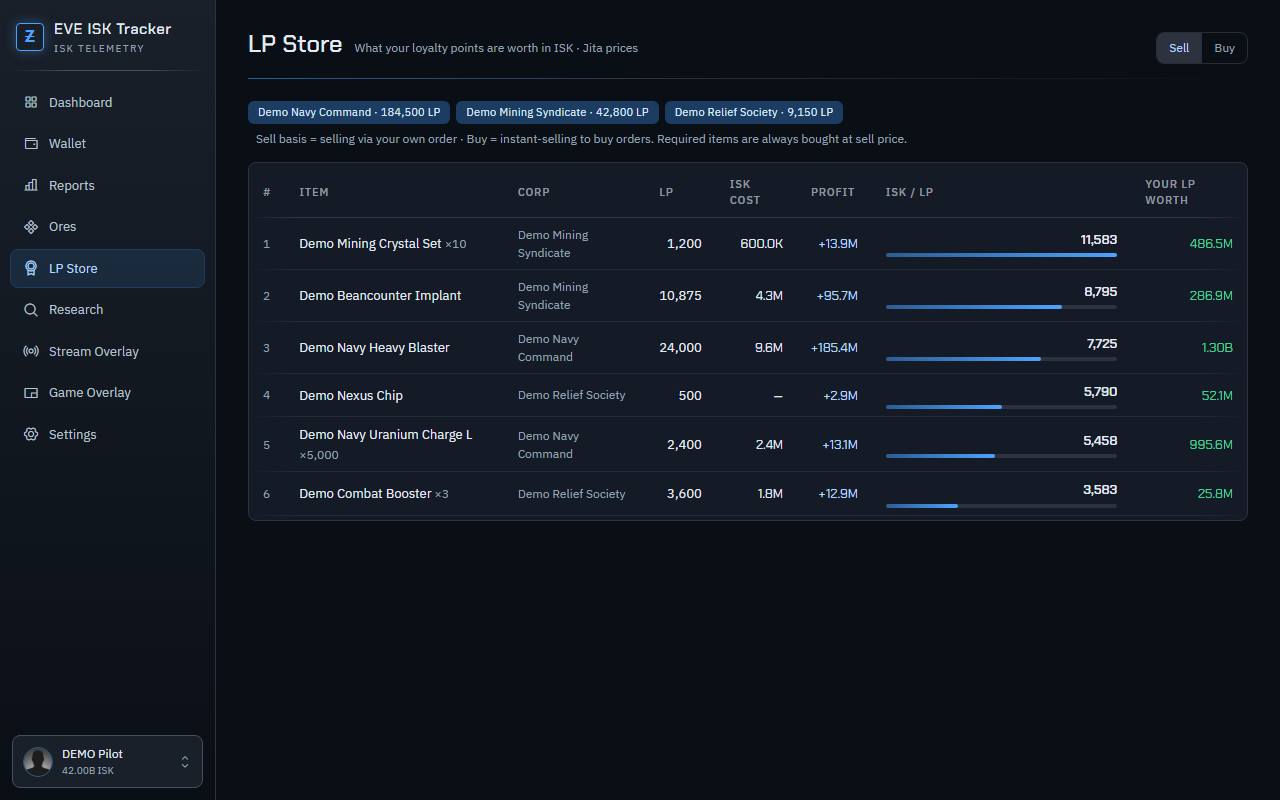
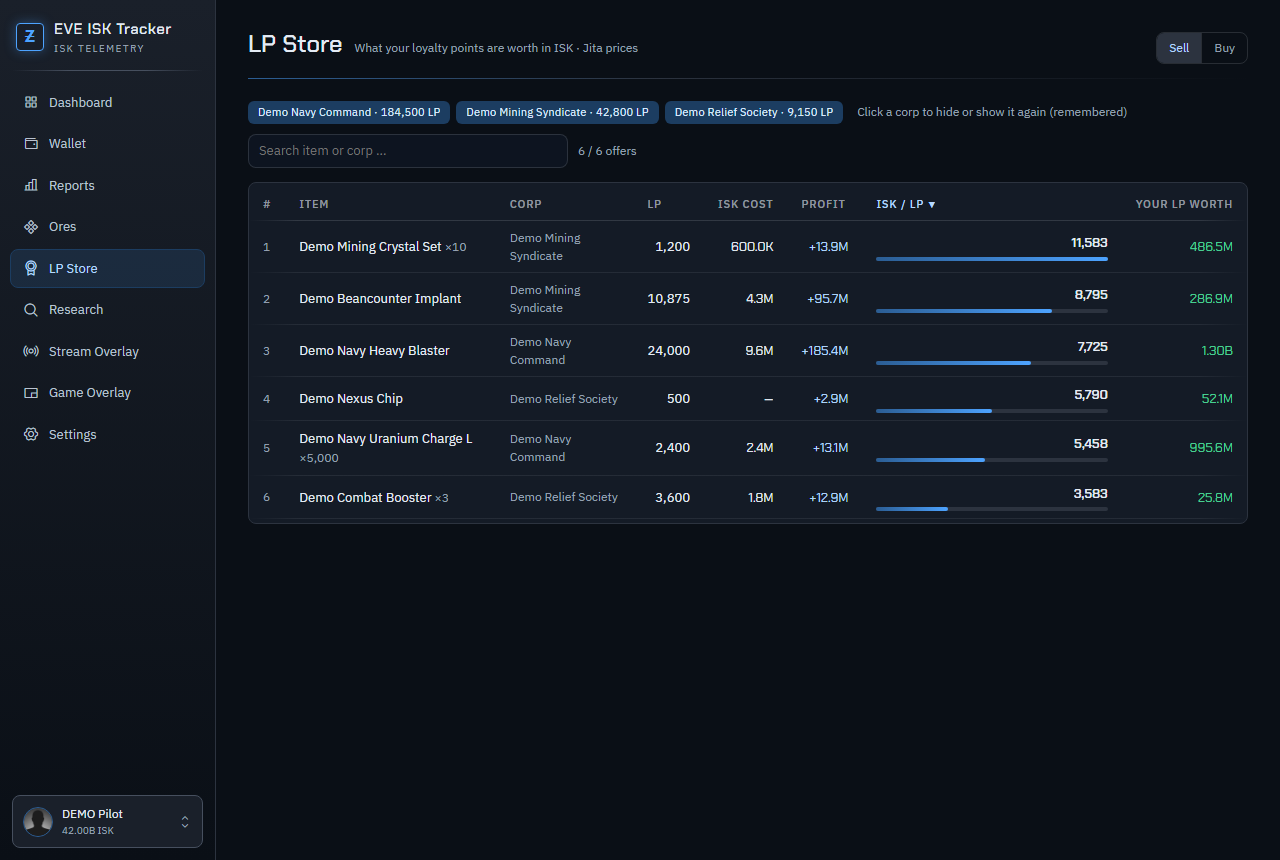
feat(lp): Corps ausblendbar, Suche und sortierbare Spalten im LP Store
- Corp-Marken sind Schalter: ein Klick blendet die Angebote einer Corp aus,
  ein zweiter wieder ein. Die Auswahl merkt sich der Tracker (kv lp_hidden_corps)
  und ueberspringt versteckte Corps auch beim Auffrischen — spart ESI-Abfragen
- Suchfeld filtert live nach Item oder Corp, mit Trefferzaehler
- alle Spalten sortierbar (Klick dreht die Richtung), nicht bewertbare Zeilen
  bleiben immer am Ende
- Zeilenlimit entfallen: der Screen zeigt jetzt alle Angebote (bisher 400),
  sonst haette das Sortieren nur einen Ausschnitt erfasst
- Screenshot und README nachgezogen

diff --git a/EveIskTracker.Desktop/wwwroot/app.js b/EveIskTracker.Desktop/wwwroot/app.js
@@ -130,6 +130,13 @@ const L = {
   thLpProfit: ['Gewinn', 'Profit'],
   thLpTotal: ['Deine LP wert', 'Your LP worth'],
   lpEmpty: ['Noch keine LP-Daten.', 'No LP data yet.'],
+  lpNoMatch: ['Kein Treffer für die Suche.', 'Nothing matches your search.'],
+  lpOffers: ['Angebote', 'offers'],
+  lpSearchPh: ['Item oder Corp suchen …', 'Search item or corp …'],
+  lpHideCorp: ['Ausblenden — Angebote dieser Corp verstecken', 'Hide — exclude this corp\u2019s offers'],
+  lpShowCorp: ['Wieder einblenden', 'Show again'],
+  lpCorpNote: ['Corp anklicken, um sie aus- oder wieder einzublenden (wird gemerkt)',
+               'Click a corp to hide or show it again (remembered)'],
   lpNoLp: ['Keine Loyalitätspunkte gefunden — LP gibt es für Missionen, Incursions und Faction Warfare.',
            'No loyalty points found — you earn LP from missions, incursions and faction warfare.'],
   lpScopeBanner: ['Für LP-Daten fehlt deinem Login noch die Berechtigung <code>esi-characters.read_loyalty.v1</code>. Auf developers.eveonline.com die Permission zur Anwendung hinzufügen, dann unter Settings den Charakter neu anmelden.',
@@ -994,9 +1001,17 @@ $('metricToggles').addEventListener('click', async e => {
 
 S.lpBasis = 'sell';
 
+// Zustand des LP-Screens: Rohdaten vom Server, Suche und Sortierung liegen im
+// Client — die Liste ist klein genug, und Tippen soll ohne Serverrunde reagieren
+S.lpData = null;
+S.lpQuery = '';
+S.lpSort = 'iskPerLp';
+S.lpDesc = true;
+
 async function loadLpScreen() {
   if (!S.charId) return;
   const d = await api(`/api/lp?charId=${S.charId}&basis=${S.lpBasis}`);
+  S.lpData = d;
   const me = S.status && S.status.characters.find(c => c.characterId === S.charId);
 
   $('lpProgress').textContent = d.busy ? `${t('lpLoading')} … ${d.progress || ''}` : '';
@@ -1006,14 +1021,59 @@ async function loadLpScreen() {
     (d.error ? `<div class="banner err">${esc(d.error)}</div>` : '') +
     (me && me.hasLpScope && !d.balances.length ? `<div class="banner info">${t('lpNoLp')}</div>` : '');
 
+  // Corps sind Schalter: abgewählte Corps fliegen aus der Rangliste und werden
+  // beim Auffrischen übersprungen; die Auswahl merkt sich der Tracker
   $('lpBalances').innerHTML = d.balances.map(b =>
-    `<span class="tag tag-accent">${esc(b.corp)} · ${nloc(b.lp)} LP</span>`).join('') +
-    (d.balances.length ? `<span class="head-note" style="align-self:center;margin-left:8px">${t('lpBasisNote')}</span>` : '');
+    `<span class="tag ${b.hidden ? 'tag-off' : 'tag-accent'} click" data-lpcorp="${b.corpId}"
+       title="${b.hidden ? t('lpShowCorp') : t('lpHideCorp')}">${esc(b.corp)} · ${nloc(b.lp)} LP</span>`).join('') +
+    (d.balances.length ? `<span class="head-note" style="align-self:center;margin-left:8px">${t('lpCorpNote')}</span>` : '');
 
-  const max = d.rows.length && d.rows[0].iskPerLp != null ? d.rows[0].iskPerLp : 1;
-  $('lpRows').innerHTML = d.rows.length ? d.rows.map((r, i) => `
+  renderLpRows();
+
+  // Solange Preise laden, automatisch nachfassen
+  if (d.busy && S.screen === 'lp') setTimeout(() => { if (S.screen === 'lp') loadLpScreen().catch(() => {}); }, 3000);
+}
+
+/** Zeilen filtern, sortieren und zeichnen — ohne den Server erneut zu fragen. */
+function renderLpRows() {
+  const d = S.lpData;
+  if (!d) return;
+
+  const q = S.lpQuery.trim().toLowerCase();
+  let rows = d.rows.filter(r =>
+    !q || r.item.toLowerCase().includes(q) || r.corp.toLowerCase().includes(q));
+
+  // Nicht bewertbare Zeilen (kein Marktpreis) immer ans Ende, egal wie sortiert wird
+  const key = S.lpSort;
+  const val = r => {
+    const v = r[key];
+    if (typeof v === 'string') return v.toLowerCase();
+    return v == null ? null : v;
+  };
+  rows = rows.slice().sort((a, b) => {
+    const va = val(a), vb = val(b);
+    if (va == null && vb == null) return 0;
+    if (va == null) return 1;
+    if (vb == null) return -1;
+    const c = typeof va === 'string' ? va.localeCompare(vb) : va - vb;
+    return S.lpDesc ? -c : c;
+  });
+
+  // Balkenlänge misst am besten sichtbaren ISK/LP-Wert
+  const best = Math.max(...rows.map(r => r.iskPerLp || 0), 1);
+
+  $('lpCount').textContent = d.rows.length
+    ? `${nloc(rows.length)} / ${nloc(d.rows.length)} ${t('lpOffers')}` : '';
+
+  document.querySelectorAll('#screen-lp th.sortable').forEach(th => {
+    const on = th.dataset.sort === S.lpSort;
+    th.classList.toggle('sorted', on);
+    th.dataset.dir = on ? (S.lpDesc ? 'desc' : 'asc') : '';
+  });
+
+  $('lpRows').innerHTML = rows.length ? rows.map((r, i) => `
     <tr>
-      <td class="head-note">${r.iskPerLp != null ? i + 1 : '–'}</td>
+      <td class="head-note">${i + 1}</td>
       <td>${typeIcon(r.typeId)}${esc(r.item)}${r.qty > 1 ? ` <span class="head-note">×${nloc(r.qty)}</span>` : ''}
         ${r.reqCost > 0 ? `<div class="head-note" style="font-size:11px">+ ${t('lpReq')} ${fmtIsk(r.reqCost)}</div>` : ''}</td>
       <td class="head-note" style="font-size:12px">${esc(r.corp)}</td>
@@ -1022,14 +1082,46 @@ async function loadLpScreen() {
       <td class="num mono ${r.profit > 0 ? 'acc' : ''}">${r.profit != null ? signed(r.profit) : `<span class="head-note">${t('lpNoPrice')}</span>`}</td>
       <td class="num">
         <div class="mono" style="font-weight:600">${r.iskPerLp != null ? nloc(Math.round(r.iskPerLp)) : '—'}</div>
-        <div class="bar" style="margin-top:4px"><div class="bar-fill" style="width:${r.iskPerLp != null ? Math.max(1, Math.round(r.iskPerLp / max * 100)) : 0}%"></div></div>
+        <div class="bar" style="margin-top:4px"><div class="bar-fill" style="width:${r.iskPerLp != null ? Math.max(1, Math.round(r.iskPerLp / best * 100)) : 0}%"></div></div>
       </td>
       <td class="num mono ${r.myTotal > 0 ? 'pos' : ''}">${r.myTotal != null && r.myTotal > 0 ? fmtIsk(r.myTotal) : '—'}</td>
-    </tr>`).join('') : `<tr><td colspan="8" class="empty">${t('lpEmpty')}</td></tr>`;
-
-  // Solange Preise laden, automatisch nachfassen
-  if (d.busy && S.screen === 'lp') setTimeout(() => { if (S.screen === 'lp') loadLpScreen().catch(() => {}); }, 3000);
+    </tr>`).join('')
+    : `<tr><td colspan="8" class="empty">${q ? t('lpNoMatch') : t('lpEmpty')}</td></tr>`;
 }
+
+// Corp an-/abwählen: sofort speichern, dann neu laden (der Server filtert mit)
+$('lpBalances').addEventListener('click', async e => {
+  const tag = e.target.closest('[data-lpcorp]');
+  if (!tag || !S.lpData) return;
+  const id = tag.dataset.lpcorp;
+  const hidden = (S.status.lpHiddenCorps || '').split(',').filter(Boolean);
+  const next = hidden.includes(id) ? hidden.filter(x => x !== id) : [...hidden, id];
+  try {
+    await api('/api/config', {
+      method: 'POST', headers: { 'Content-Type': 'application/json' },
+      body: JSON.stringify({ lpHiddenCorps: next.join(',') }),
+    });
+    S.status.lpHiddenCorps = next.join(',');
+    // wieder eingeblendet? Dann fehlen evtl. Angebote/Preise — Auffrischen anstoßen
+    if (hidden.includes(id)) await api(`/api/lp/refresh?charId=${S.charId}`, { method: 'POST' });
+    await loadLpScreen();
+  } catch (err) { alert(t('saveFail') + err.message); }
+});
+
+$('lpSearch').addEventListener('input', e => {
+  S.lpQuery = e.target.value;
+  renderLpRows();
+});
+
+// Spaltenkopf: erst nach dieser Spalte sortieren, erneuter Klick dreht die Richtung
+document.querySelector('#screen-lp thead').addEventListener('click', e => {
+  const th = e.target.closest('th.sortable');
+  if (!th) return;
+  const key = th.dataset.sort;
+  if (S.lpSort === key) S.lpDesc = !S.lpDesc;
+  else { S.lpSort = key; S.lpDesc = key !== 'item' && key !== 'corp'; }
+  renderLpRows();
+});
 
 $('lpBasis').addEventListener('click', e => {
   const b = e.target.closest('.seg-opt'); if (!b) return;

diff --git a/EveIskTracker.Desktop/wwwroot/index.html b/EveIskTracker.Desktop/wwwroot/index.html
@@ -235,19 +235,23 @@
       <div class="head-rule"></div>
 
       <div id="lpBanners"></div>
-      <div class="tagrow" id="lpBalances" style="margin-bottom:14px"></div>
+      <div class="tagrow" id="lpBalances" style="margin-bottom:10px"></div>
+      <div class="row" style="margin-bottom:14px;gap:10px">
+        <input class="input" id="lpSearch" data-i18n-ph="lpSearchPh" placeholder="Item oder Corp suchen ..." style="max-width:320px">
+        <span class="head-note" id="lpCount"></span>
+      </div>
 
       <div class="card" style="padding:4px 0">
         <div class="tablewrap"><table class="table">
           <thead><tr>
             <th style="width:36px">#</th>
-            <th>Item</th>
-            <th>Corp</th>
-            <th class="num">LP</th>
-            <th class="num" data-i18n="thLpIsk">ISK-Einsatz</th>
-            <th class="num" data-i18n="thLpProfit">Gewinn</th>
-            <th class="num" style="width:26%">ISK / LP</th>
-            <th class="num" data-i18n="thLpTotal">Deine LP wert</th>
+            <th class="sortable" data-sort="item">Item</th>
+            <th class="sortable" data-sort="corp">Corp</th>
+            <th class="num sortable" data-sort="lpCost">LP</th>
+            <th class="num sortable" data-sort="iskCost" data-i18n="thLpIsk">ISK-Einsatz</th>
+            <th class="num sortable" data-sort="profit" data-i18n="thLpProfit">Gewinn</th>
+            <th class="num sortable" data-sort="iskPerLp" style="width:26%">ISK / LP</th>
+            <th class="num sortable" data-sort="myTotal" data-i18n="thLpTotal">Deine LP wert</th>
           </tr></thead>
           <tbody id="lpRows"><tr><td colspan="8" class="empty" data-i18n="lpEmpty">Noch keine LP-Daten.</td></tr></tbody>
         </table></div>

diff --git a/EveIskTracker.Desktop/wwwroot/app.css b/EveIskTracker.Desktop/wwwroot/app.css
@@ -258,3 +258,10 @@ code{background:#0d1420;padding:2px 7px;border-radius:5px;font-size:12px;color:v
 .banner{border-radius:9px;padding:11px 14px;margin-bottom:12px;font-size:13px}
 .banner.err{background:rgba(242,100,122,.1);border:1px solid rgba(242,100,122,.35);color:#ffb3bf}
 .banner.info{background:rgba(77,163,255,.08);border:1px solid rgba(77,163,255,.3);color:#bcdcfb}
+
+/* Sortierbare Spaltenköpfe (LP Store): Richtung als kleiner Pfeil am Titel */
+.table th.sortable{cursor:pointer;user-select:none;white-space:nowrap}
+.table th.sortable:hover{color:var(--color-accent-200)}
+.table th.sorted{color:var(--color-accent-200)}
+.table th.sorted::after{content:' \25B2';font-size:9px}
+.table th.sorted[data-dir="desc"]::after{content:' \25BC'}

diff --git a/EveIskTracker.Desktop/WebHost.cs b/EveIskTracker.Desktop/WebHost.cs
@@ -105,6 +105,7 @@ WHERE last_error IS NOT NULL
                 usingDefaultApp = !string.IsNullOrWhiteSpace(Config.DefaultClientId) && string.IsNullOrWhiteSpace(Config.ClientIdRaw),
                 contact = Config.Contact,
                 activeCharId = Config.ActiveCharacterId,
+                lpHiddenCorps = Config.LpHiddenCorps,
                 overlayTextPath = Config.OverlayTextPath,
                 overlayMetrics = Config.OverlayMetrics,
                 rateHold = Config.RateHoldSeconds,
@@ -140,6 +141,7 @@ WHERE last_error IS NOT NULL
             if (form.TryGetValue("sessionAutoStop", out var sa)) Config.SessionAutoStop = sa != "0";
             if (form.TryGetValue("gameOverlayModules", out var gm)) Config.GameOverlayModules = gm;
             if (form.TryGetValue("gameOverlayLayout", out var gl)) Config.GameOverlayLayout = gl;
+            if (form.TryGetValue("lpHiddenCorps", out var lh)) Config.LpHiddenCorps = lh;
             if (form.TryGetValue("gameOverlayOpacity", out var go) && int.TryParse(go, out var gov))
             {
                 Config.GameOverlayOpacity = gov;
@@ -655,10 +657,18 @@ WHERE l.character_id=$c AND l.lp > 0 ORDER BY l.lp DESC", ("$c", charId)))
                 while (r.Read())
                 {
                     lpByCorp[r.GetInt64(0)] = r.GetInt64(2);
-                    balances.Add(new { corpId = r.GetInt64(0), corp = r.GetString(1), lp = r.GetInt64(2) });
+                    balances.Add(new
+                    {
+                        corpId = r.GetInt64(0),
+                        corp = r.GetString(1),
+                        lp = r.GetInt64(2),
+                        hidden = Config.IsLpCorpHidden(r.GetInt64(0)),
+                    });
                 }
 
-            var offers = LpStore.LoadOffers(corps);
+            // Angebote ausgeblendeter Corps gar nicht erst bewerten
+            var visible = corps.Where(c => !Config.IsLpCorpHidden(c)).ToList();
+            var offers = LpStore.LoadOffers(visible);
             var prices = MarketPrices.Load();
             var names = Analytics.Names();
 
@@ -696,7 +706,7 @@ WHERE l.character_id=$c AND l.lp > 0 ORDER BY l.lp DESC", ("$c", charId)))
                 error = LpStore.LastError,
                 balances,
                 rows = computed.OrderByDescending(x => x.IskPerLp ?? double.MinValue)
-                               .Select(x => x.Row).Take(400),
+                               .Select(x => x.Row),
             });
         });
 

diff --git a/EveIskTracker.Desktop/Config.cs b/EveIskTracker.Desktop/Config.cs
@@ -158,6 +158,30 @@ public static class Config
         set => Db.SetKv("active_char", value.ToString());
     }
 
+    /// <summary>
+    /// NPC-Corps, deren LP-Store-Angebote im LP-Screen ausgeblendet sind (Komma-Liste
+    /// von Corp-IDs). Man sammelt bei vielen Corps nebenbei ein paar Punkte, die nie
+    /// jemand eintauscht, die sollen die Rangliste nicht zumuellen. Ausgeblendete
+    /// Corps werden auch beim Auffrischen uebersprungen und kosten so keine Abfragen.
+    /// </summary>
+    public static string LpHiddenCorps
+    {
+        get => Db.GetKv("lp_hidden_corps", "");
+        set
+        {
+            var clean = (value ?? "")
+                .Split(',', StringSplitOptions.RemoveEmptyEntries | StringSplitOptions.TrimEntries)
+                .Where(s => long.TryParse(s, out var v) && v > 0)
+                .Distinct();
+            Db.SetKv("lp_hidden_corps", string.Join(',', clean));
+        }
+    }
+
+    /// <summary>Ist diese Corp im LP-Screen ausgeblendet?</summary>
+    public static bool IsLpCorpHidden(long corpId) =>
+        LpHiddenCorps.Split(',', StringSplitOptions.RemoveEmptyEntries)
+                     .Any(s => long.TryParse(s, out var v) && v == corpId);
+
     /// <summary>Oberflächensprache: "de" oder "en". Standard Englisch (internationales Publikum).</summary>
     public static string Lang
     {

diff --git a/EveIskTracker.Desktop/LpStore.cs b/EveIskTracker.Desktop/LpStore.cs
@@ -139,7 +139,8 @@ public static class LpStore
     private static async Task RefreshAsync(long charId)
     {
         var esi = new EsiClient(Config.Contact);
-        var corps = CorpsWithLp(charId);
+        // ausgeblendete Corps kosten weder Abfragen noch Preis-Lookups
+        var corps = CorpsWithLp(charId).Where(c => !Config.IsLpCorpHidden(c)).ToList();
         if (corps.Count == 0) return;
 
         // 1) Angebote je Corp (24h-Cache — LP-Stores ändern sich praktisch nie)

diff --git a/RELEASE_NOTES_v0.4.0.md b/RELEASE_NOTES_v0.4.0.md
@@ -1,0 +1,60 @@
+## v0.4.0 — DPS everywhere, and overlays that follow your character
+
+### ✨ Added
+
+- **DPS graph in the stream widget** — the combat curves (damage dealt vs. taken) are now
+  a toggleable tile in the OBS/Streamlabs widget, right below the stat tiles.
+- **Standalone DPS browser source** — prefer the graph somewhere else in your scene?
+  It is also available on its own at `/dpswidget` (420 × 150, transparent background).
+- **Recommended source size** — the Stream Overlay screen measures the live preview and
+  tells you exactly what size to give the browser source; it updates as you toggle tiles.
+- **All overlays follow the character you pick in the app** — switch characters at the
+  bottom left and the stream widget, the DPS source and the in-game overlay all switch
+  with you. No need to touch your OBS sources; existing URLs keep working. Append
+  `&pin=1` to lock a single source to one specific character (multiboxing).
+- **Preview with demo curves** — the widget preview inside the app shows simulated combat
+  data, so you can judge the graph without being in a fight. The real OBS source always
+  shows real data.
+
+### 💅 Improved
+
+- **Smoother graphs** — the curves now scroll continuously (instead of jumping once per
+  second), are smoothed with a 7-second rolling average and drawn as rounded Bézier
+  curves instead of jagged spikes.
+- **Calm right edge** — EVE writes its combat log in bursts, which made the newest
+  seconds twitch. The last few seconds are now held back until they are final.
+- **Combat log selection** — when multiboxing, the character you selected takes priority
+  over whichever client happens to be writing the most.
+- **In-game overlay footer** — the totals since client start are colour-coded to match
+  their curves instead of sitting there as unlabelled grey numbers.
+
+### 🐛 Fixed
+
+- **The in-game overlay can no longer take the graphics driver down with it.** Overlays
+  over games are a classic cause of GPU crashes, so the overlay now renders entirely
+  without the GPU, in its own isolated browser process, and reloads itself if that
+  process ever dies. Hiding the overlay suspends it completely.
+- **Session row explains itself** — without a running session the ISK row used to show
+  nothing but dashes, which read like "the tracker is broken". It now shows your wallet
+  balance plus a note that no session is running (and says so clearly when no character
+  is signed in, or when the tracker is unreachable).
+- **Stale token errors** — "please sign in again" no longer sticks around forever after a
+  successful re-login.
+- **CCP downtime** is shown as a calm notice instead of red error banners; the LIVE
+  status stays on.
+
+### 📝 Docs
+
+- README updated for all of the above, including the new external data source
+  ([EVE Ref](https://everef.net/), blueprint data) and an explicit note that combat logs
+  are only ever read, never written, and never leave your machine.
+- All screenshots refreshed; new ones for the in-game overlay, the LP store and the
+  standalone DPS source.
+
+---
+
+**Requirements:** Windows 10/11 with the WebView2 runtime (ships with Windows 11).
+The in-game overlay needs EVE in **windowed** or **borderless fullscreen** mode.
+SmartScreen warns about unsigned downloads — "More info" → "Run anyway".
+
+**Full Changelog**: https://github.com/ridaamirini/eve-isk-tracker/compare/v0.3.0...v0.4.0

diff --git a/README.md b/README.md
@@ -39,7 +39,9 @@ itself still shows you.
   placeable anywhere in your scene
 - **LP store comparison** — see what your loyalty points are worth: all offers from the
   corps you hold LP with, valued at Jita prices (including required items), ranked by
-  **ISK per LP** — plus what your current LP balance would pay out at each offer
+  **ISK per LP** — plus what your current LP balance would pay out at each offer. Hide
+  corps you never actually trade with (remembered, and skipped when refreshing), search
+  by item or corp, and sort by any column
 - **Product research** — search any item and compare best sell/buy prices across the five
   major trade hubs, plus its manufacturing bill of materials with Jita-priced build cost
   and margin vs. the best hub (blueprint data from EVE Ref)
@@ -82,9 +84,8 @@ source, where no default is embedded), see [SETUP.md](SETUP.md).
 **Game Overlay → Show overlay** (or **Ctrl+Shift+O** anywhere). The HUD floats above the
 EVE client — always on top, click-through, never steals focus. The DPS graph tails EVE's
 game logs in `Documents\EVE\logs\Gamelogs` (read-only, no game modification, works in any
-client language) and automatically follows the most recently active client — switch
-characters and the HUD follows. Use *Adjust position* to drag it where you want; pick the
-view (**detailed** with graph and totals, or a **compact** number strip), modules (DPS
+client language) and follows the character you pick in the app. Use *Adjust position*
+to drag it where you want; pick the view (**detailed** with graph and totals, or a **compact** number strip), modules (DPS
 graph, session stats) and opacity (10–100 % slider) in the app. EVE must run in
 **windowed** or **borderless fullscreen** mode — nothing can draw over exclusive
 fullscreen.
